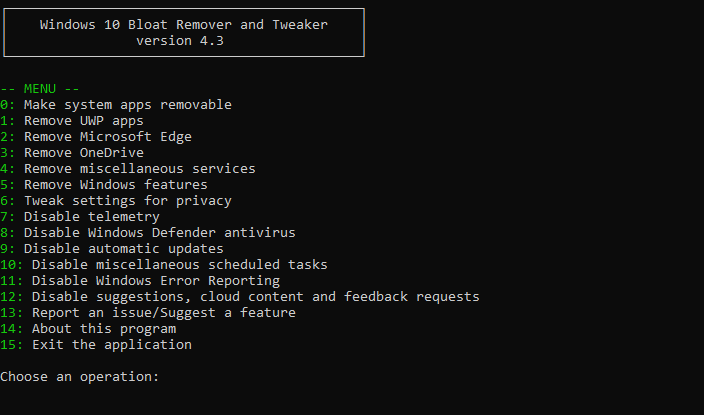
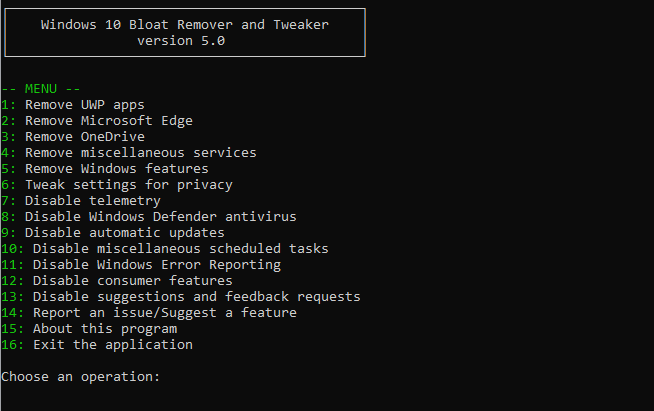
Update Readme for version 5.0

Changed region(s): [[0.0, 0.2044, 0.7034, 0.9343], [0.0, 0.0, 0.5199, 0.146]]

diff --git a/README.md b/README.md
@@ -6,28 +6,32 @@ This configurable tool provides an interactive command-line interface to aggress
 
 Here's what it can do for you:
 
-* **Make system apps removable** by editing an internal system database. Thanks to this, system UWP apps like legacy Edge and Security Center can be uninstalled in Settings app or via PowerShell commands. Take note that system apps can be reinstalled by Windows cumulative updates.  
 * **Remove pre-installed UWP apps:** uninstalls the apps specified by the user either for the current Windows user or for all users (see *Configuration* section below, options `UWPAppsToRemove` and `UWPAppsRemovalMode`). When apps are uninstalled for all users, their corresponding provisioned packages are deleted too (if present), so that they won't get reinstalled for new users or after feature updates. 
 * **Remove Microsoft Edge:** uninstalls the newer Chromium-based Edge and the legacy UWP version of the browser, which are both pre-installed in recent versions of the OS.
 * **Disable OS telemetry:** disables several Windows components that collect diagnostic and usage information such as Compatibility Telemetry, Inventory, Device Census, Customer Experience Improvement Program and others. It also deletes the services which are responsible for data reporting to Microsoft.
 * **Remove system services:** deletes - not just disables - the services specified by the user (see *Configuration* section below, option `ServicesToRemove`) after backing up their Registry keys, so that you can restore them if anything breaks.
 * **Tweak Windows settings for enhanced privacy:** makes Windows more privacy-respectful by turning off certain system features that put your personal data at risk, such as inking/typing personalization, app launch tracking, clipboard/text messages synchronization, voice activation and some more. Take note that the goal here is to provide a mindful balance that leans towards privacy, without sacrificing too much in terms of user experience.
-* **Disable Windows Defender:** disables the antivirus (*not* the firewall) that comes pre-installed on the OS and removes its background services. It also disables SmartScreen protection, as [it sends sensitive data to Microsoft](https://www.bleepingcomputer.com/news/microsoft/windows-10-smartscreen-sends-urls-and-app-names-to-microsoft/). *Only for tech-savvy users!⚠*
+* **Disable Windows Defender:** disables the antivirus (*not* the firewall) that comes pre-installed on the OS and removes its background services. It also disables SmartScreen protection, as [it sends sensitive data to Microsoft](https://www.bleepingcomputer.com/news/microsoft/windows-10-smartscreen-sends-urls-and-app-names-to-microsoft/). *Only for tech-savvy users!*
 * **Remove OneDrive** using the uninstaller provided by Microsoft, its folder in Explorer sidebar will also be hidden. Furthermore, its automatic setup will be disabled to prevent the app from being installed for new users.
-* **Remove Windows features:** uninstalls the [Feature-On-Demand (FOD) capabilities](https://docs.microsoft.com/en-us/windows-hardware/manufacture/desktop/features-on-demand-v2--capabilities) specified by the user (see *Configuration* section below, option `WindowsFeaturesToRemove`).
-* **Disable automatic updates:** prevents automatic download and installing of Windows and Store apps updates through Group Policies. Take note that **automatic Windows Updates can't be disabled on Windows 10 Home.**
+* **Remove Windows features:** uninstalls the [Feature-On-Demand (FOD) capabilities](https://docs.microsoft.com/en-us/windows-hardware/manufacture/desktop/features-on-demand-v2--capabilities?view=windows-10) specified by the user (see *Configuration* section below, option `WindowsFeaturesToRemove`).
+* **Disable automatic updates:** prevents automatic download and installation of Windows and Store apps updates. Take note that **automatic Windows Updates cannot be disabled on Windows 10 Home.**
 * **Disable Windows Error Reporting (WER)**: thanks to this, Windows will no longer "check for a solution to the problem" when a program crashes.
-* **Disable suggestions, cloud-based content** (including Spotlight and News and Interests) **and feedback requests** through Group Policies
+* **Disable consumer features**: turns off several superfluous and distracting features such as Spotlight, News and Interests, Search highlights, Meet Now, automatic installation of suggested apps and some more.
+* **Disable suggestions and feedback requests** by changing relevant Group Policies and system settings
 * **Disable scheduled tasks** specified by the user (see *Configuration* section below, option `ScheduledTasksToDisable`)
 
 Be aware that while most of these operations can be reverted with a system restore point, **some of them cannot** (uninstalling FODs/provisioned app packages), and carry over after major Windows updates and full system restores.
 
-Unless otherwise specified, operations are applied to all users in the system. However, some of them (*Disable suggestions, cloud content and feedback requests*, *Disable Windows Defender antivirus* and *Tweak settings for privacy*) can not be fully applied to other users that have been created *before* those operations have been run, due to how user registry hives work.  
+Unless otherwise specified, operations are applied to all users in the system. However, some of them (*Remove OneDrive*, *Disable suggestions and feedback requests*, *Disable consumer features*, *Disable Windows Defender antivirus* and *Tweak settings for privacy*) can not be fully applied to other users that have been created *before* those operations have been run.  
 Therefore, in order to have the maximum effect, it is recommended to **run this tool before creating any other user in the system.**
 
 It is also highly recommended to **re-run the operations every time a Windows feature update is installed** (especially if Windows Upgrade Assistant is used), since all system services and some default settings get restored by the upgrade process.
 
 👉 **Head to [Releases](https://github.com/Fs00/Win10BloatRemover/releases) to download the latest version.**
+
+⚠ In some rare cases, **Windows Defender might identify the tool as a malware** and quarantine it.  
+This is obviously a false positive and is likely due to the fact that the techniques used to disable Defender may resemble some malware-like behavior to the antivirus.  
+Release artifacts are built by GitHub Actions from the source code stored in this repository and are provided as-is, with no modifications.
 
 ## Configuration
 Program settings are stored in [JSON format](https://en.wikipedia.org/wiki/JSON) in a file called *config.json*, located in the same folder as the program's executable. If said file is not found (e.g. when launching the tool for the first time), it is created containing the default settings.
@@ -67,7 +71,7 @@ Configures which pre-installed UWP apps should be uninstalled. Take note that yo
 **Default value:** an array containing some of the app groups listed above
 
 ### `UWPAppsRemovalMode`
-Configures whether to remove UWP apps for all present and future users (which is the default) or just for the current user. Take note that trying to remove system apps only for the current user might not always work.
+Configures whether to remove UWP apps for all present and future users (which is the default) or just for the current user.
 
 **Allowed values:** `"AllUsers"` or `"CurrentUser"`  
 **Default value:** `"AllUsers"`
@@ -104,5 +108,6 @@ You can find the names of all FOD capabilities available for your system (includ
 ## Credits
 This tool was originally based on Federico Dossena's [Windows 10 de-botnet guide](https://github.com/adolfintel/Windows10-Privacy), which is now discontinued.  
 Over time, the program evolved on its own, taking sometimes inspiration from the work made by other open source developers:
-  - [**privacy.sexy** website](https://github.com/undergroundwires/privacy.sexy) by @undergroundwires
-  - [**Debloat Windows 10** scripts](https://github.com/W4RH4WK/Debloat-Windows-10) by @W4RH4WK
+  - [**privacy.sexy** website](https://privacy.sexy) by [@undergroundwires](https://github.com/undergroundwires)
+  - [**Debloat Windows 10** scripts](https://github.com/W4RH4WK/Debloat-Windows-10) by [@W4RH4WK](https://github.com/W4RH4WK)
+  - [Edge Removal script](https://github.com/AveYo/fox) by [@AveYo](https://github.com/AveYo)
